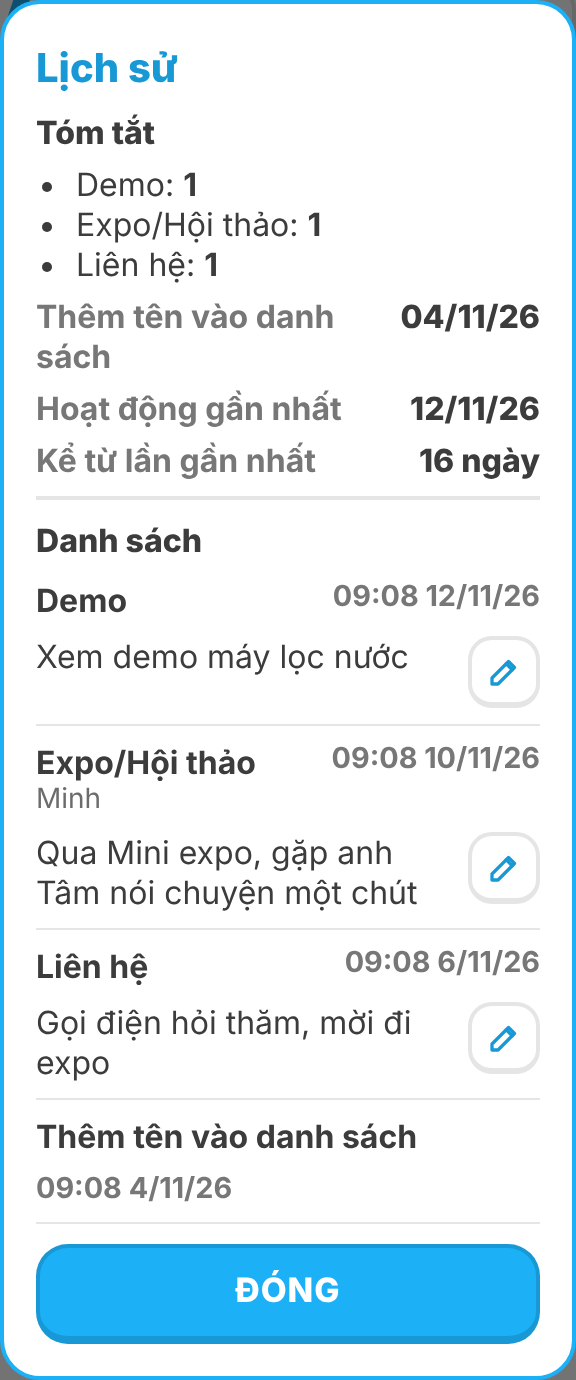
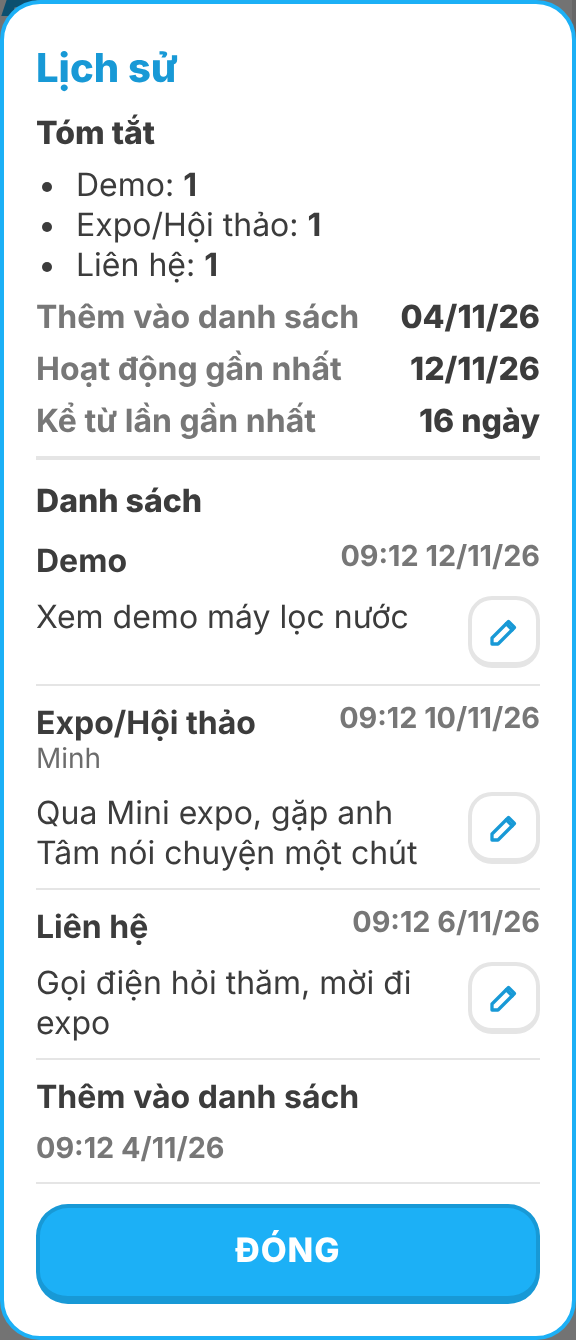
fix: Lịch sử calls the add date and its row "Thêm vào danh sách"
Story: user request 2026-11-28 (story 065 follow-up)

Claude-Session: https://claude.ai/code/session_01N8trRukAdUtow4mzvQDbn7

Changed region(s): [[0.0625, 0.0306, 0.9375, 0.9485], [0.3125, 0.7037, 0.5312, 0.7649], [0.0, 0.0, 0.0312, 0.0306]]

diff --git a/src/ui/screens/person-form.tsx b/src/ui/screens/person-form.tsx
@@ -1177,7 +1177,7 @@ export function PersonDetail({ eventStore, person, people, events, activityTypes
                   return (
                     <li key={h.id} className="history-row history-row--stacked">
                       <span className="history-row__name">
-                        {h.kind === 'stage' ? historyStageLabel(h.name) : h.kind === 'cancel' ? STRINGS.sponsorCancelHistory : h.name === '' ? STRINGS.legacyUnknownActivity : h.name}
+                        {h.kind === 'stage' ? historyStageLabel(h.name) : h.kind === 'cancel' ? STRINGS.sponsorCancelHistory : h.taskId === ADD_NAME_ID ? STRINGS.historyAddedLabel : h.name === '' ? STRINGS.legacyUnknownActivity : h.name}
                         {author !== null && <span className="history-row__author">{author}</span>}
                       </span>
                       <span className="person-row__stage">{dateTimeLabel(h.timestamp)}</span>

diff --git a/src/ui/strings.ts b/src/ui/strings.ts
@@ -425,7 +425,7 @@ export const STRINGS = {
   historyFirstLabel: 'Liên hệ đầu tiên',
   historyLastLabel: 'Liên hệ gần nhất',
   historyDaysSinceLabel: 'Kể từ lần gần nhất',
-  historyAddedLabel: 'Thêm tên vào danh sách',
+  historyAddedLabel: 'Thêm vào danh sách',
   historyLatestLabel: 'Hoạt động gần nhất',
   noteEditButton: 'Sửa ghi chú',
   noteAddButton: '+ Thêm ghi chú',
